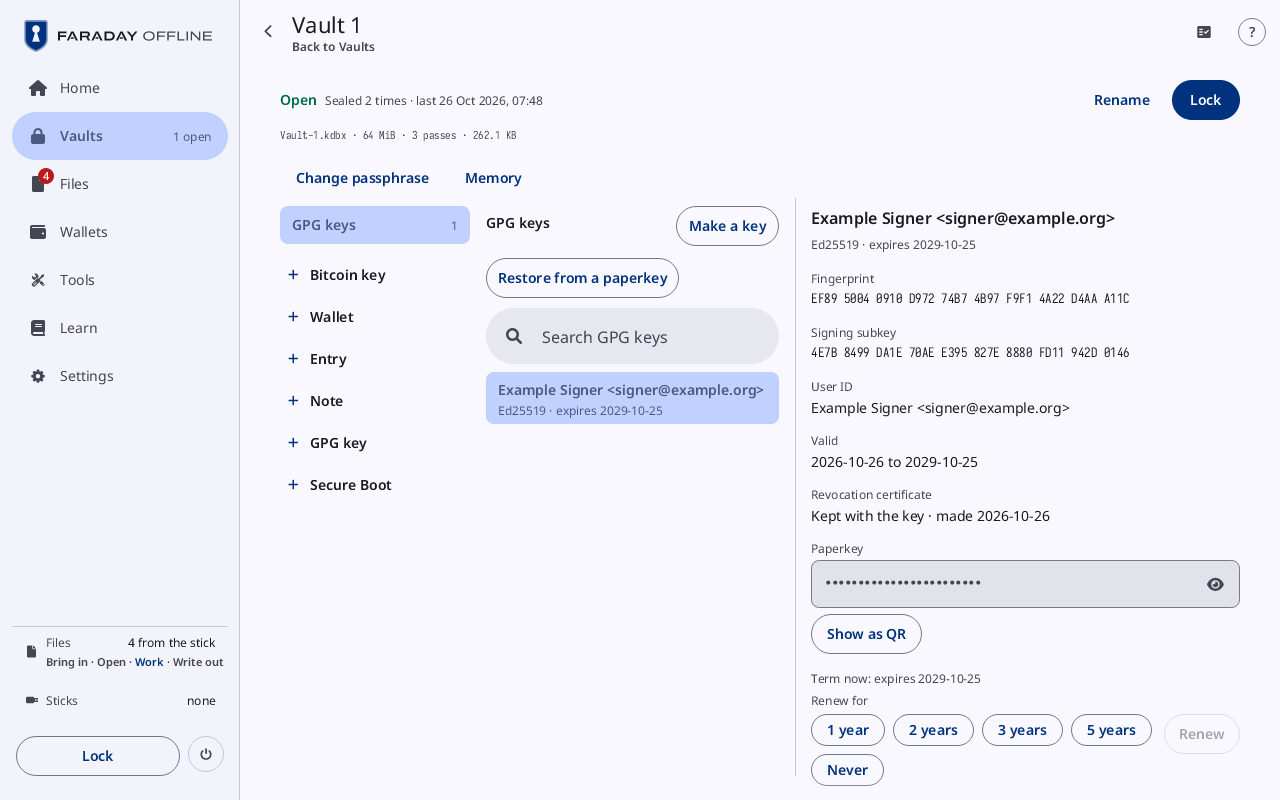
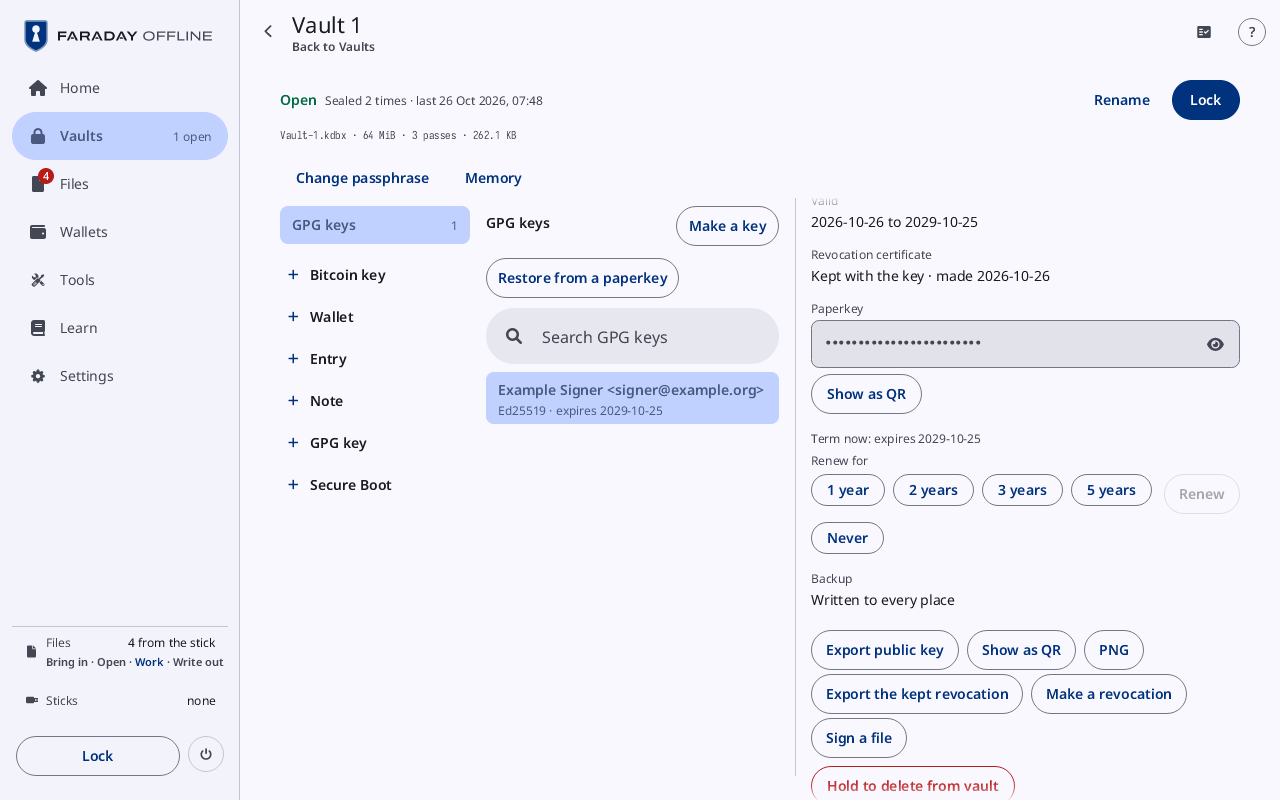
The GPG key's page, taller with Show as QR, keeps its checks: tests scroll to the rows below the window, the Renew for chips sit a touch target apart so their targets are not cut by the row beside them, and the guide's picture of the page is scrolled to show Renew for and Backup, with its caption sa
Reviewed: repo.tests-user-facing
Reviewed: tree.image-metadata
Reviewed: crypto.kept-values
Reviewed: crypto.costs-said
Reviewed: keys.secret-files
Reviewed: keys.child-vault-only
Reviewed: speed.late-flow-timed
Reviewed: speed.shown-secret-held
Reviewed: structure.areas-private
Reviewed: strings.plain
Reviewed: design.left-out
Reviewed: guide.pictures
Material: Chips (accessibility, target size)
Claude-Session: https://claude.ai/code/session_01Nu65eKifi9dLgTQsWK6kcD

diff --git a/faraday/faraday-core/tests/all/backup_flow.rs b/faraday/faraday-core/tests/all/backup_flow.rs
@@ -466,6 +466,7 @@ fn example_a_writes_both_sticks_and_the_key_page_reads_every_place_written() {
     shell.flow(&mut app, F::UnlockDone(0));
     unlock(&mut app, PHRASE);
     assert_eq!(app.screen, Screen::VaultContents);
+    scroll_to_text(&mut app, "Written to every place");
     expect(&mut app, "Written to every place");
     assert!(has(&mut app, "Release") || has_part(&mut app, "Release"));
 }
@@ -640,6 +641,7 @@ fn signing_waits_until_every_place_is_written_then_works_after_the_unlock() {
     app.press(Action::Nav(Screen::VaultContents));
     app.press(Action::Vault(V::Category(4)));
     app.press(Action::Vault(V::Item(0)));
+    scroll_to_text(&mut app, "Back up first");
     expect(&mut app, "Back up first");
     // The Backup row is under the renew terms, and under the vault's
     // Randomness row while it holds a change not yet sealed: the page
@@ -671,6 +673,7 @@ fn signing_waits_until_every_place_is_written_then_works_after_the_unlock() {
     shell.flow(&mut app, F::UnlockDone(0));
     unlock(&mut app, PHRASE);
     assert!(!has(&mut app, "Back up first"));
+    scroll_to_text(&mut app, "Written to every place");
     expect(&mut app, "Written to every place");
     app.press(Action::Vault(V::GpgSignPick));
     assert!(app.vaults().signing);
@@ -1782,6 +1785,7 @@ fn the_code_of_a_signature_waits_for_the_backup_like_the_signing() {
     app.press(Action::Nav(Screen::VaultContents));
     app.press(Action::Vault(V::Category(4)));
     app.press(Action::Vault(V::Item(0)));
+    scroll_to_text(&mut app, "Back up first");
     expect(&mut app, "Back up first");
     app.press(Action::ShowCode(faraday_core::Code::GpgSignature([0; 8])));
     assert!(

diff --git a/faraday/faraday-ui/src/parts.rs b/faraday/faraday-ui/src/parts.rs
@@ -67,6 +67,20 @@ pub fn wrap_buttons<A: Copy + PartialEq>(
     h: f32,
     items: &[(&str, Style, A)],
 ) -> f32 {
+    wrap_buttons_spaced(ui, x, y, w, h, GAP, items)
+}
+
+/// [`wrap_buttons`] with `row_gap` between its rows, for a row of choices
+/// whose rows each keep a full touch target.
+pub fn wrap_buttons_spaced<A: Copy + PartialEq>(
+    ui: &mut Ui<A>,
+    x: f32,
+    y: f32,
+    w: f32,
+    h: f32,
+    row_gap: f32,
+    items: &[(&str, Style, A)],
+) -> f32 {
     let h = ui.button_height(h);
     let (mut bx, mut by) = (x, y);
     for &(label, style, action) in items {
@@ -74,12 +88,12 @@ pub fn wrap_buttons<A: Copy + PartialEq>(
         let bw = (ui.measure_as(LABEL_L, label) + 2.0 * BUTTON_PAD + tick).min(w);
         if bx > x && bx + bw > x + w {
             bx = x;
-            by += h + GAP;
+            by += h + row_gap;
         }
         let label = ui.fit_as(LABEL_L, label, bw - BUTTON_PAD - tick);
         bx += ui.button(bx, by, Some(bw), h, &label, style, action) + GAP;
     }
-    by - y + h + GAP
+    by - y + h + row_gap
 }
 
 /// The height [`wrap_buttons`] takes for these labels, `h` high in `w`,

diff --git a/faraday/faraday-core/tests/all/common.rs b/faraday/faraday-core/tests/all/common.rs
@@ -1583,6 +1583,24 @@ pub fn device(inbox: Files) -> Faraday {
     app
 }
 
+/// The page scrolled down, as a person would, until `want` is drawn (at
+/// most 12 wheel steps); it is then read as it stands.
+pub fn scroll_to_text(app: &mut Faraday, want: &str) {
+    let _ = app.frame();
+    for _ in 0..12 {
+        if app.drawn_texts().iter().any(|t| t == want) {
+            return;
+        }
+        let (w, h) = app.size();
+        app.event(Event::Scroll {
+            x: (w * 0.75) as u16,
+            y: (h / 2.0) as u16,
+            dy: 120,
+        });
+        let _ = app.frame();
+    }
+}
+
 /// A hold, `a`, held past its time and let go: the window scrolled
 /// down first, as a person would, until it shows.
 pub fn hold(app: &mut Faraday, a: Action) {

diff --git a/faraday/shells/snapshot/src/tours/guide/gpg.rs b/faraday/shells/snapshot/src/tours/guide/gpg.rs
@@ -40,7 +40,20 @@ pub(super) fn run(t: &mut Tour) -> Result<(), String> {
     t.press(Action::Flow(F::MadeContinue));
     lock_and_write(t, notes, Some("gpg-write"))?;
     unlock_done(t)?;
+    // Scrolled to Renew for and the Backup row, then back to the top.
+    let (w, h) = t.size();
+    let wheel = |t: &mut Tour, dy: i16| {
+        let _ = t.app.frame();
+        t.app.event(Event::Scroll {
+            x: w * 3 / 4,
+            y: h / 2,
+            dy,
+        });
+        let _ = t.app.frame();
+    };
+    wheel(t, 240);
     t.shot("gpg-key-page")?;
+    wheel(t, -240);
     t.shot("vault-gpg-key")?;
     sign(t)
 }

diff --git a/faraday/faraday-core/tests/all/gpg.rs b/faraday/faraday-core/tests/all/gpg.rs
@@ -7,7 +7,7 @@
 //! is what the page shows.
 
 use crate::common::RecordsOf as _;
-use crate::common::type_text;
+use crate::common::{scroll_to_text, type_text};
 use std::path::{Path, PathBuf};
 use std::process::Command;
 
@@ -524,6 +524,7 @@ fn the_keys_page_draws_no_text_over_other_text() {
     app.press(Action::Nav(Screen::VaultContents));
     app.press(Action::Vault(V::Category(4)));
     app.press(Action::Vault(V::Item(0)));
+    scroll_to_text(&mut app, "Never");
     let texts = app.drawn_past_sides_and_text().1;
     assert!(
         texts.iter().any(|(t, _)| t == "Never"),

diff --git a/faraday/faraday-core/src/screens/mod.rs b/faraday/faraday-core/src/screens/mod.rs
@@ -50,7 +50,9 @@ use faraday_draw::tokens::{
 };
 use faraday_draw::widgets::Icon;
 pub use faraday_ui::parts::qr_code;
-pub(crate) use faraday_ui::parts::{button_rows, section_label, sheet_box, wrap_buttons};
+pub(crate) use faraday_ui::parts::{
+    button_rows, section_label, sheet_box, wrap_buttons, wrap_buttons_spaced,
+};
 pub(crate) use files::{stick_chip as files_stick_chip, vault_panel};
 pub(crate) use home::{home_lead_beside_tiles, tile_grid};
 pub(crate) use message::{MESSAGE_STEPS, MSTEPS};

diff --git a/faraday/faraday-core/src/vault/screen/save.rs b/faraday/faraday-core/src/vault/screen/save.rs
@@ -341,7 +341,10 @@ pub(crate) fn years_row(
         (label, style, va(act(years)))
     })
     .collect();
-    crate::screens::wrap_buttons(ui, x, y, w, 32.0, &items) - 8.0
+    // Rows a full touch target apart, so a chip's target is not cut by the
+    // row beside it.
+    let row_gap = faraday_draw::tokens::GAP * 2.0;
+    crate::screens::wrap_buttons_spaced(ui, x, y, w, 32.0, row_gap, &items) - row_gap
 }
 
 /// GnuPG's reasons for a revocation, in its menu's order. Returns the

diff --git a/docs/guide/walk/gpg.md b/docs/guide/walk/gpg.md
@@ -208,7 +208,7 @@ before the copy was checked. Nothing counted**): plug it in again.
 
 ## 7. Done, and the key's page
 
-![Vault 1 open on GPG keys, Example Signer's page with its fingerprint, Renew for and Backup written to every place](../pictures/gpg-key-page.png)
+![Vault 1 open on GPG keys, Example Signer's page scrolled down from its fingerprint to the paperkey, Renew for and Backup written to every place](../pictures/gpg-key-page.png)
 
 **Done** reads **Written**, with a line per stick: its pill, its
 place, its label and the time ("Stick 2 · Vault 1 (Place 1) · KEYSTICK
